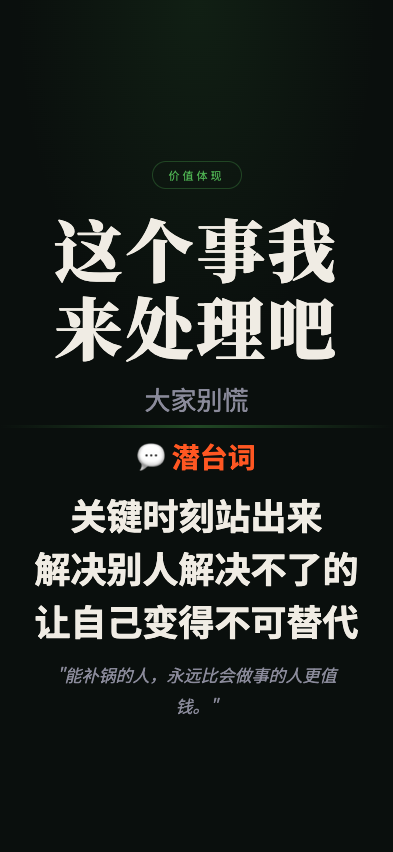
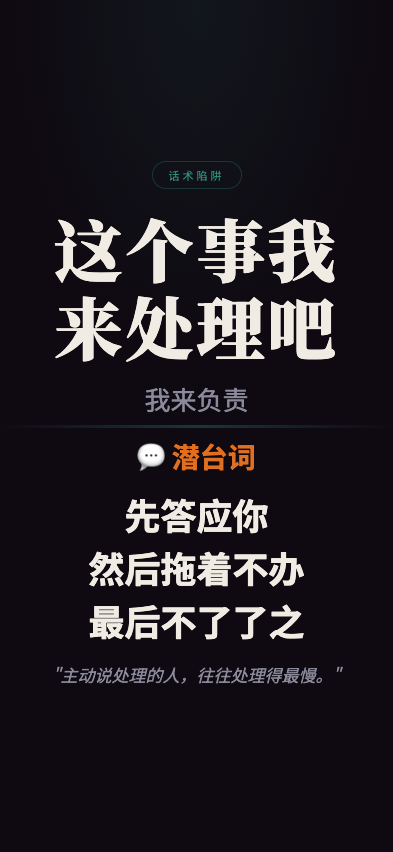
feat: 职场生存法则 screenshot - zuijinxiabandouhenzhunshia

diff --git a/wuliao-tools/tools/biz-speak/scenes/zhegeshiwolaichuliba.html b/wuliao-tools/tools/biz-speak/scenes/zhegeshiwolaichuliba.html
@@ -7,11 +7,11 @@
 <link href="https://fonts.googleapis.com/css2?family=Noto+Serif+SC:wght@400;700;900&family=Noto+Sans+SC:wght@300;400;700&display=swap" rel="stylesheet">
 <style>
   :root {
-    --bg: #0a0f0d;
+    --bg: #0f0a12;
     --text: #f0ece4;
     --text-dim: #8a8a9a;
-    --gold: #4caf50;
-    --red: #ff5722;
+    --gold: #2e8b7a;
+    --red: #e07020;
   }
   * { margin:0; padding:0; box-sizing:border-box; }
   html, body { width:100%; height:100%; overflow:hidden; }
@@ -24,11 +24,11 @@
   }
   body::before {
     content:''; position:absolute; top:0; left:0; right:0; height:45%;
-    background:radial-gradient(ellipse at 50% 0%, rgba(76,175,80,0.1) 0%, transparent 65%);
+    background:radial-gradient(ellipse at 50% 0%, rgba(46,139,122,0.1) 0%, transparent 65%);
     pointer-events:none; z-index:0;
   }
   .top { flex:1; display:flex; flex-direction:column; align-items:center; justify-content:flex-end; padding:4px 28px 8px; position:relative; z-index:1; }
-  .tag { font-size:11px; letter-spacing:3px; color:var(--gold); border:1px solid rgba(76,175,80,0.3); padding:5px 16px; border-radius:50px; margin-bottom:20px; }
+  .tag { font-size:11px; letter-spacing:3px; color:var(--gold); border:1px solid rgba(46,139,122,0.3); padding:5px 16px; border-radius:50px; margin-bottom:20px; }
   .main-title { font-family:'Noto Serif SC'; font-size:68px; font-weight:900; text-align:center; line-height:1.15; letter-spacing:3px; min-width:0; overflow-wrap:break-word; max-width:92%; }
   .sub-title { font-size:26px; color:var(--text-dim); text-align:center; margin-top:14px; }
   .divider { width:100%; height:3px; background:linear-gradient(90deg,transparent,var(--gold),transparent); opacity:0.35; flex-shrink:0; position:relative; z-index:1; }
@@ -41,19 +41,19 @@
 </head>
 <body>
   <div class="top">
-    <div class="tag">价值体现</div>
+    <div class="tag">话术陷阱</div>
     <div class="main-title">这个事我来处理吧</div>
-    <div class="sub-title">大家别慌</div>
+    <div class="sub-title">我来负责</div>
   </div>
   <div class="divider"></div>
   <div class="bottom">
     <div class="truth-label">💬 潜台词</div>
     <div class="truth-lines">
-      <div class="truth-line">关键时刻站出来</div>
-      <div class="truth-line">解决别人解决不了的</div>
-      <div class="truth-line">让自己变得不可替代</div>
+      <div class="truth-line">先答应你</div>
+      <div class="truth-line">然后拖着不办</div>
+      <div class="truth-line">最后不了了之</div>
     </div>
-    <div class="quote">"能补锅的人，永远比会做事的人更值钱。"</div>
+    <div class="quote">"主动说处理的人，往往处理得最慢。"</div>
   </div>
 </body>
 </html>
